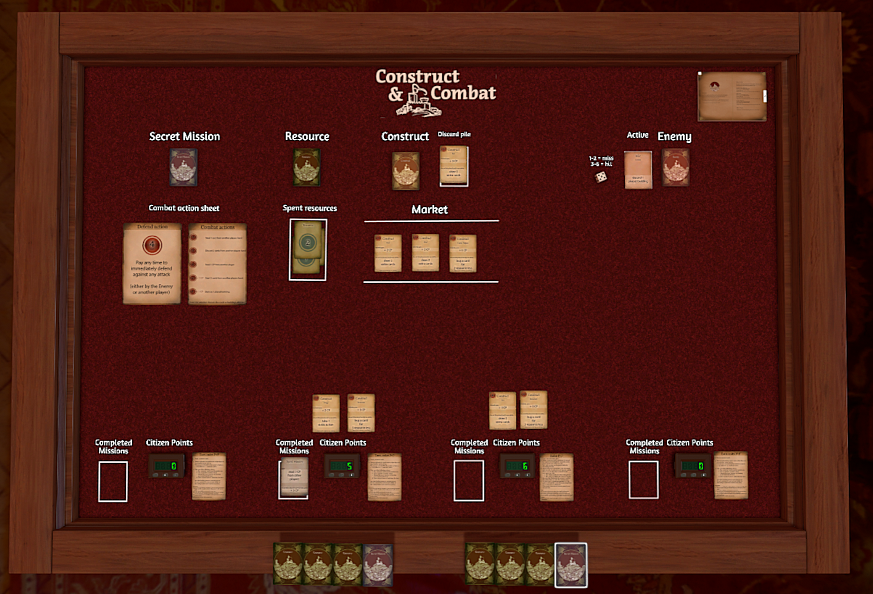
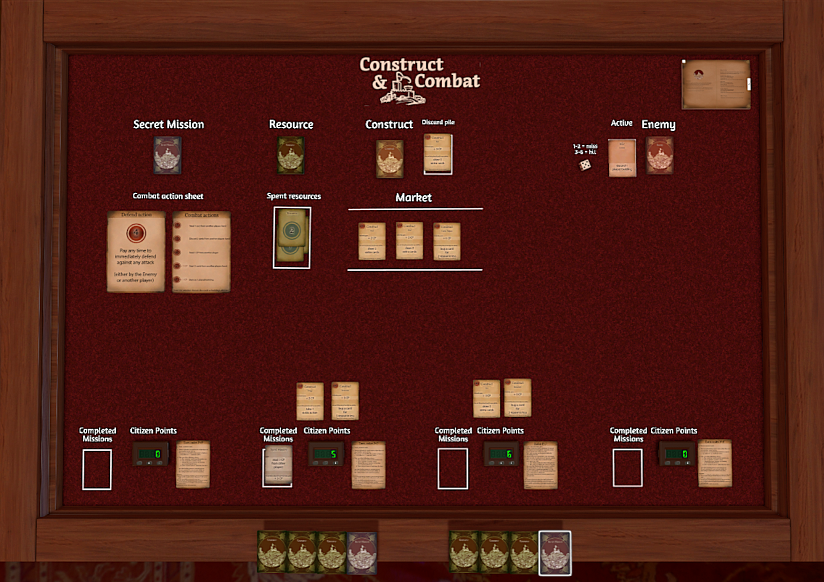
Updated mockups on the case studies

diff --git a/index.html b/index.html
@@ -107,7 +107,8 @@
 
       <div style="padding-bottom:20px;" class="row black hoverable rounded_corners">
         <div class="col s10 offset-s1 m6 l4 offset-l1">
-          <img alt="Cryptids game" style="padding:30px;margin-top:20px;" class="responsive-img materialboxed center" src="images/projects/lemonadeapocalypse/winner.png">
+          <img alt="Lemonade Apocalypse game" style="padding:10px;margin-top:20px;" class="responsive-img materialboxed center" src="images/projects/lemonadeapocalypse/mockup_1.png">
+          <img alt="Game logo for Lemonade Apocalypse" style="padding:10px;" class="responsive-img materialboxed center" src="images/projects/lemonadeapocalypse/winner.png">
         </div>
         <div class="col s12 m6 l5">
           <h5 class="header white-text" style="padding-left:10px;padding-top:20px">In Progress</h5>
@@ -126,7 +127,8 @@
 
       <div style="padding-bottom:20px;" class="row black hoverable rounded_corners">
         <div class="col s10 offset-s1 m6 l4 offset-l1">
-          <img alt="Cryptids game" style="padding:10px;margin-top:20px;" class="responsive-img materialboxed center" src="images/projects/cryptids/winner_logo.png">
+          <img alt="Cryptids game" style="padding:10px;margin-top:20px;" class="responsive-img materialboxed center" src="images/projects/cryptids/mockup.png">
+          <img alt="Cryptids game" style="padding:10px;" class="responsive-img materialboxed center" src="images/projects/cryptids/winner_logo.png">
         </div>
         <div class="col s12 m6 l5">
           <!-- <h5 class="header white-text" style="padding-left:10px;padding-top:20px">In Progress</h5> -->
@@ -163,8 +165,9 @@
 
       <div style="padding-bottom:20px;" class="row black hoverable rounded_corners">
         <div class="col s12 m6 l4 offset-l1">
-          <img alt="Contruct & Combat logo" class="materialboxed responsive-img" src="images/projects/construct&combat/game_logo.png" style="padding: 30px 30px 0px 30px;margin-top:20px;">
-          <img alt="Tabletop Simulator view of the game" class="materialboxed responsive-img" src="images/projects/construct&combat/tts1.png" style="padding: 0px 30px 0px 30px;margin-top:20px;"> </div>
+          <img alt="Contruct & Combat logo" class="materialboxed responsive-img" src="images/projects/construct&combat/mockup.png" style="padding: 10px;margin-top:20px;">
+          <!-- <img alt="Tabletop Simulator view of the game" class="materialboxed responsive-img" src="images/projects/construct&combat/tts1.png" style="padding: 0px 30px 0px 30px;margin-top:20px;">  -->
+        </div>
         <div class="col s12 m6 l5">
           <h4 style="padding-top:20px;padding-bottom:20px;">Construct & Combat</h4>
             <p class="light flow-text ">
@@ -181,7 +184,7 @@
 
       <div style="padding-bottom:20px;" class="row black hoverable rounded_corners">
         <div class="col s10 offset-s1 m6 l4 offset-l1">
-          <img alt="Dreams Academy overview page" style="padding:30px;margin-top:20px;" class="responsive-img materialboxed center" src="images/projects/dreamsacademy/academy_start.png">
+          <img alt="Dreams Academy overview page" style="padding:30px;margin-top:20px;" class="responsive-img materialboxed center" src="images/projects/dreamsacademy/mockup.png">
         </div>
         <div class="col s12 m6 l5">
           <h4 style="padding-top:20px;padding-bottom:20px;">Dreams Academy</h4>
@@ -199,7 +202,7 @@
 
       <div style="padding-bottom:20px;" class="row black hoverable rounded_corners">
         <div class="col s10 offset-s1 m6 l4 offset-l1">
-          <img alt="Swing Speed Radar landing page" style="padding:30px;margin-top:20px;" class="responsive-img materialboxed center" src="images/projects/swingspeedradar/landing_page.png">
+          <img alt="Swing Speed Radar landing page" style="padding:30px;margin-top:20px;" class="responsive-img materialboxed center" src="images/projects/swingspeedradar/mockup.png">
         </div>
         <div class="col s12 m6 l5">
           <h4 style="padding-top:20px;padding-bottom:20px;">Swing Speed Radar</h4>

diff --git a/construct&combat.html b/construct&combat.html
@@ -50,7 +50,7 @@
     <div class="container">
       <div class="row black rounded_corners" style="margin-top:40px;">
         <div class="image col s12 m12 l4 offset-l1 center" style="margin-top:40px;">
-          <img alt="Contruct & Combat logo" class="materialboxed responsive-img" src="images/projects/construct&combat/game_logo.png" style="margin-top: 1rem; margin-bottom:20px;">
+          <img alt="Contruct & Combat logo" class="materialboxed responsive-img" src="images/projects/construct&combat/mockup.png" style="margin-top: 1rem; margin-bottom:20px;">
           <!-- <img alt="Tabletop Simulator view of the game" class="materialboxed responsive-img" src="images/projects/construct&combat/tts1.png" style="margin-top: 1rem;margin-bottom:20px;"> -->
           <a href="images/projects/construct&combat/pnp_rules_sell.pdf" download target="_blank" class="btn-large waves-effect waves-light" style="margin-bottom:20px;">Download Print & Play</a>
           <a href="https://steamcommunity.com/sharedfiles/filedetails/?id=2296338874"target="_blank" class="btn-large waves-effect waves-light" style="margin-bottom:20px;">Tabletop Simulator</a>
@@ -163,10 +163,18 @@
         <div class="col s12 m12 l6">
           <a href="https://worldbeyondwar.org/" target="_blank">
             <figure>
-              <img alt="World Beyond War logo" class="responsive-img projects" src="images/projects/construct&combat/wbw_logo.jpg"></a>
+              <img alt="World Beyond War logo" class="responsive-img projects" src="images/projects/construct&combat/logo.png"></a>
               <figcaption>
                 <p class="img-caption center">
                   A global nonviolent movement to end war
+                </p>
+              </figcaption>
+            </figure>
+            <figure>
+              <img alt="Construct cards" class="responsive-img projects" src="images/projects/construct&combat/mockup_cards.png"></a>
+              <figcaption>
+                <p class="img-caption center">
+                  Some of the cards in the game
                 </p>
               </figcaption>
             </figure>

diff --git a/projects.html b/projects.html
@@ -49,7 +49,7 @@
       
       <div style="padding-bottom:20px;" class="row black hoverable rounded_corners">
         <div class="col s10 offset-s1 m6 l4 offset-l1">
-          <img alt="Chubby Hamster Knight game" style="padding:30px;margin-top:20px;" class="responsive-img materialboxed center" src="images/projects/chubbyhamsterknight/game_logo_square.png">
+          <img alt="Chubby Hamster Knight game" style="padding:10px;margin-top:20px;" class="responsive-img materialboxed center" src="images/projects/chubbyhamsterknight/mockup.png">
         </div>
         <div class="col s12 m6 l5">
           <h4 style="padding-top:20px;">Chubby Hamster Knight</h4>
@@ -66,7 +66,7 @@
 
       <div style="padding-bottom:20px;" class="row black hoverable rounded_corners">
         <div class="col s10 offset-s1 m6 l4 offset-l1">
-          <img alt="Chubby Hamster Knight game" style="padding:30px;margin-top:20px;" class="responsive-img materialboxed center" src="images/projects/unravelarg/SubwayAd.png">
+          <img alt="Unravel game poster" style="padding:10px;margin-top:20px;" class="responsive-img materialboxed center" src="images/projects/unravelarg/mockup_stand.png">
         </div>
         <div class="col s12 m6 l5">
           <h4 style="padding-top:20px;">Unravel - The Alternate Reality Game</h4>

diff --git a/dreamsacademy.html b/dreamsacademy.html
@@ -52,7 +52,7 @@
       
       <div class="row black rounded_corners" style="margin-top:40px;">
         <div class="image col s12 m12 l4 offset-l1 center" style="margin-top:40px;">
-          <img alt="The Dreams Academy overview page, with process bar" class="materialboxed responsive-img" src="images/projects/dreamsacademy/academy_start.png" style="padding-top: 1rem;max-width: 80%;padding-bottom: 20px;margin: 0 auto;">
+          <img alt="The Dreams Academy overview page, with process bar" class="materialboxed responsive-img" src="images/projects/dreamsacademy/mockup.png" style="padding-top: 1rem;max-width: 80%;padding-bottom: 20px;margin: 0 auto;">
           <!-- <img alt="Tabletop Simulator view of the game" class="materialboxed responsive-img" src="images/projects/construct&combat/tts1.png" style="margin-top: 1rem;margin-bottom:20px;"> -->
           <a href="https://www.figma.com/proto/JF2clYkiuSwRYFOOvUkSVj/Project-1-Get-Dreams?node-id=264%3A1849&viewport=1944%2C537%2C0.9511101245880127&scaling=scale-down" style="margin-bottom:20px;" target="_blank" class="btn-large waves-effect waves-light">try the prototype</a>
         </div>

diff --git a/unravelarg.html b/unravelarg.html
@@ -51,8 +51,7 @@
 
       <div class="row black rounded_corners" style="margin-top:40px;">
         <div class="image col s12 m12 l4 offset-l1 center" style="margin-top:40px;">
-          <!-- <img alt="AR game picture" class="materialboxed responsive-img" src="images/projects/arcade/final_game2.PNG" style="padding-top: 1rem;max-width: 80%;padding-bottom: 20px;margin: 0 auto;"> -->
-          <img alt="Poster" class="materialboxed responsive-img projects" src="images/projects/unravelarg/SubwayAd.png" style="max-width:60%;margin: 0 auto;padding-bottom: 20px;">
+          <img alt="Poster" class="materialboxed responsive-img projects" src="images/projects/unravelarg/mockup_stand.png" style="max-width:80%;margin: 0 auto;padding-bottom: 20px;">
           <a href="https://www.youtube.com/watch?v=PUtjtorJKMA&t=1s" style="margin-bottom:20px;" target="_blank" class="btn-large waves-effect waves-light">watch trailer</a>
         </div>
         <div class="col s12 m12 l6" style="padding-top:0px;margin-top:40px;">

diff --git a/chubbyhamsterknight.html b/chubbyhamsterknight.html
@@ -51,7 +51,7 @@
 
       <div class="row black rounded_corners" style="margin-top:40px;">
         <div class="image col s12 m12 l4 offset-l1 center" style="margin-top:40px;">
-          <img alt="Game picture" class="materialboxed responsive-img materialboxed" src="images/projects/chubbyhamsterknight/game_logo_square.png" style="margin-top: 1rem; margin-bottom:20px;">
+          <img alt="Game picture" class="materialboxed responsive-img materialboxed" src="images/projects/chubbyhamsterknight/mockup.png" style="margin-top: 1rem; margin-bottom:20px;">
           <a href="https://gamejolt.com/games/ChubbyHamsterKnight/637232"target="_blank" class="btn-large waves-effect waves-light" style="margin-bottom:20px;">Try the game</a>
         </div>
         <div class="col s12 m12 l6" style="padding-top:0px;margin-top:40px;">

diff --git a/lemonade_apocalypse.html b/lemonade_apocalypse.html
@@ -51,7 +51,7 @@
 
       <div class="row black rounded_corners" style="margin-top:40px;">
         <div class="image col s12 m12 l4 offset-l1 center" style="margin-top:40px;">
-          <img alt="Game logo" class="materialboxed responsive-img materialboxed" src="images/projects/lemonadeapocalypse/winner.png" style="margin-top: 1rem; margin-bottom:20px;">
+          <img alt="Game logo" class="materialboxed responsive-img materialboxed" src="images/projects/lemonadeapocalypse/mockup.png" style="margin-top: 1rem; margin-bottom:20px;">
           <a href="https://gamejolt.com/games/lemonadeapocalypse/637077"target="_blank" class="btn-large waves-effect waves-light" style="margin-bottom:20px;">Try the game</a>
         </div>
         <div class="col s12 m12 l6" style="padding-top:0px;margin-top:40px;">

diff --git a/swingspeedradar.html b/swingspeedradar.html
@@ -51,7 +51,7 @@
 
       <div class="row black rounded_corners" style="margin-top:40px;">
         <div class="image col s12 m12 l4 offset-l1 center" style="margin-top:40px;">
-          <img alt="Swing Speed Radar Homepage" class="materialboxed responsive-img" src="images/projects/swingspeedradar/landing_page.png" style="margin-top: 1rem; padding-bottom: 20px;max-width: 80%;">
+          <img alt="Swing Speed Radar Homepage" class="materialboxed responsive-img" src="images/projects/swingspeedradar/mockup.png" style="margin-top: 1rem; padding-bottom: 20px;max-width: 90%;">
         </div>
         <div class="col s12 m12 l6" style="padding-top:0px;margin-top:40px;">
           <h5 class="header white-text" style="padding-left:10px;">Case Study</h5>
